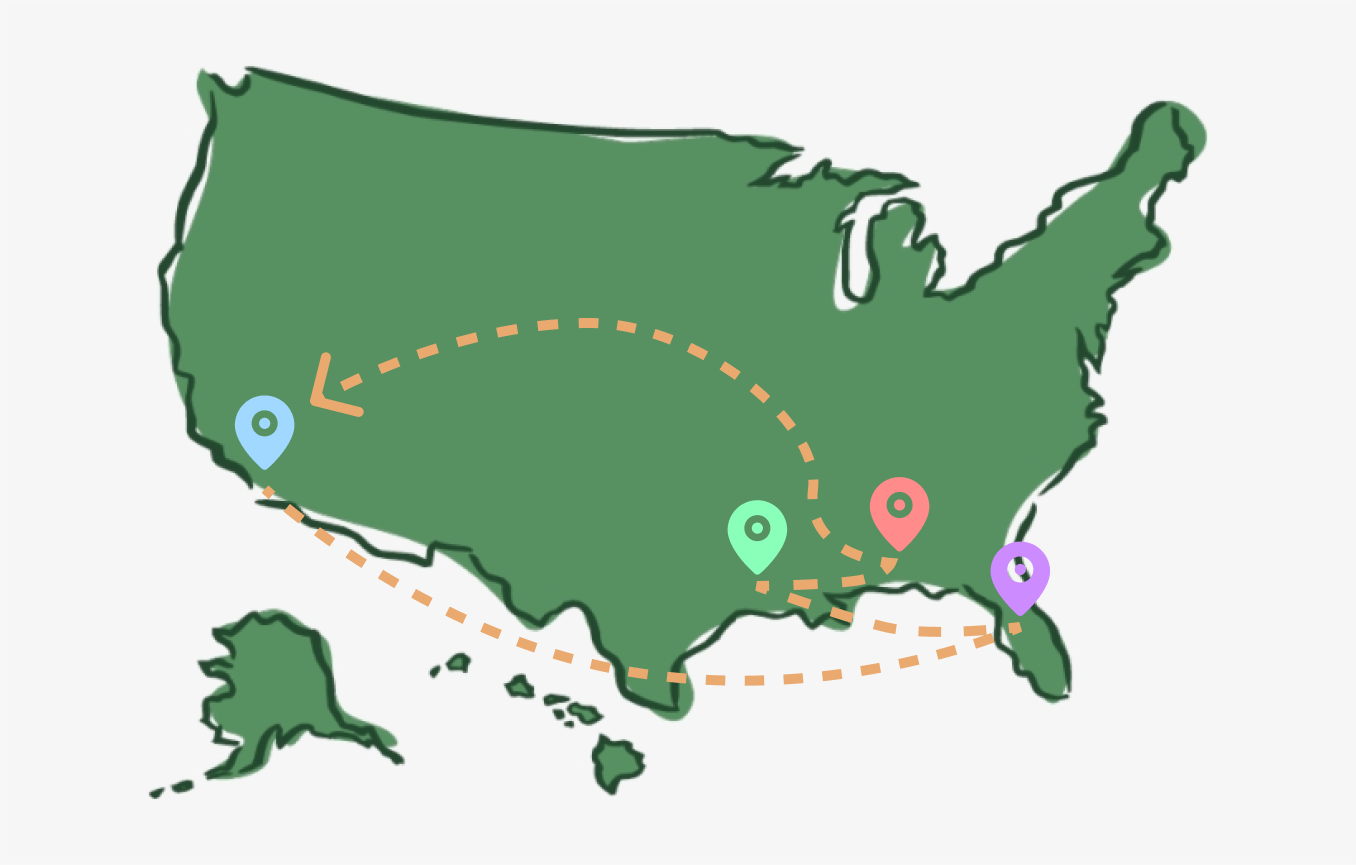
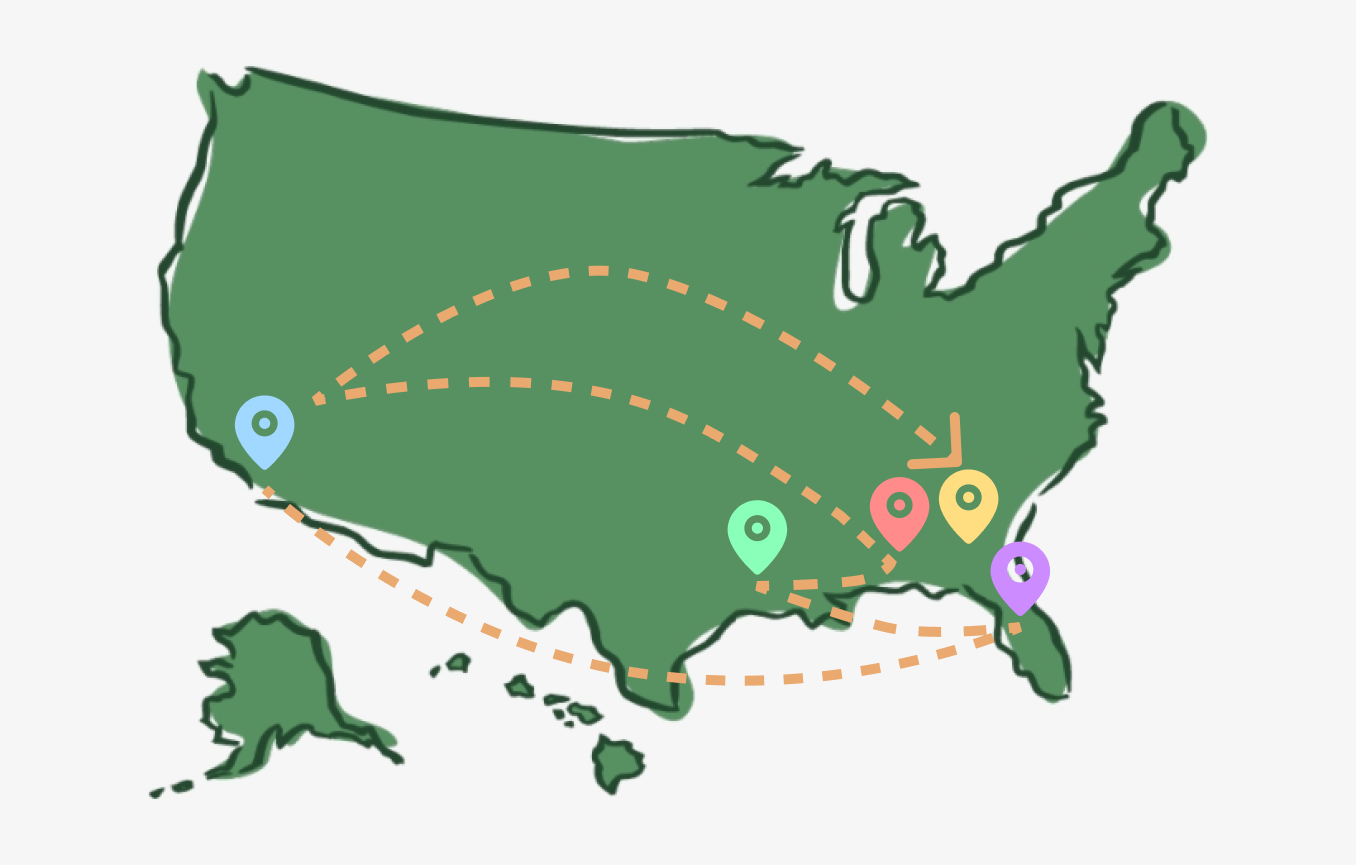
summer 2025 updates - map and description edits

diff --git a/index.html b/index.html
@@ -33,7 +33,7 @@
                     <div class="col-lg-6 col-12 d-flex justify-content-center align-items-center">
                         <div class="">
                             <h1>Hey! I'm <span id="myName">Audrey Zhao</span></h1>
-                            <h4 class="subtitle-index-text">Fullstack Developer and UI/UX Designer</h4>
+                            <h4 class="subtitle-index-text">Full-Stack Developer and UI/UX Designer</h4>
 
                             <div id="socials-section">
                                 <div class="row justify-content-left align-items-center">
@@ -94,12 +94,13 @@
     <div id="index-about-me" class="row align-items-center justify-content-center">
         <div class="row" style="max-width: 1000px">
             <div class="col-lg-6 text-center" id="about-pic-div">
-                <img src="/Assets\photos\about-me-pic.png" alt="A picture of me!" class="overlap-pic rounded mx-auto" id="about-me-pic">
+                <img src="/Assets\photos\about-me-pic.png" alt="A picture of me!" class="overlap-pic rounded mx-auto mt-4" id="about-me-pic">
             </div>
             <div class="col-lg-6">
-                <div id="index-about-me-text" class="mt-4">
+                <div id="index-about-me-text" class="">
                     <h1>About me</h1>
-                    <p class="lead">I’m currently a Design Engineer at <a style="color: rgb(201, 231, 255); text-decoration: none;" href="https://maxentric.com/">MaXentric Technologies.</a></p>
+                    <p class="lead">I’m currently pursuing a Master's degree in <a style="color: rgb(201, 231, 255); text-decoration: none;" href="https://mshci.gatech.edu/">Human-Computer Interaction (HCI)</a> at the Georgia Institute of Technology (Georgia Tech).</p>
+                    <p class="lead">For 3 years prior, I was a Design Engineer at <a style="color: rgb(201, 231, 255); text-decoration: none;" href="https://maxentric.com/">MaXentric Technologies.</a></p>
                     <p class="lead">I’m passionate about UI/UX design, software development, and ways in which we can better connect the two.</p>
                     <p class="lead">My main hobbies include figure skating, snowboarding, game development, and playing various musical instruments.</p>
                 </div>
@@ -143,11 +144,15 @@
                     </div>
                     <div class="row space20Above">
                         <div class="col-2 text-center"><img src="/images/map-pins/blue-pin.png" class="map-pins"></div>
-                        <div class="col-8 vertCenter"><p class="lead">2022 || Software Innovator Intern at MaXentric Technologies & VR Design Lab Intern at UCSD</p></div>
+                        <div class="col-8 vertCenter"><p class="lead">2022 || VR Design Lab Intern at UCSD</p></div>
                     </div>
                     <div class="row space20Above">
                         <div class="col-2 text-center"><img src="/images/map-pins/blue-pin.png" class="map-pins"></div>
-                        <div class="col-8 vertCenter"><p class="lead">Present || Design Engineer at MaXentric Technologies</p></div>
+                        <div class="col-8 vertCenter"><p class="lead">2022-2025 || Design Engineer at MaXentric Technologies</p></div>
+                    </div>
+                    <div class="row space20Above">
+                        <div class="col-2 text-center"><img src="/images/map-pins/yellow-pin.png" class="map-pins"></div>
+                        <div class="col-8 vertCenter"><p class="lead">Present || Pursuing M.S. in Human-Computer Interaction at the Georgia Institute of Technology</p></div>
                     </div>
                 </div>
             </div>
